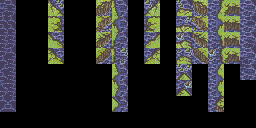
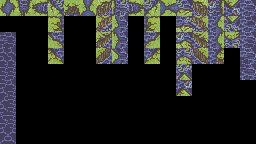
Working on Sea

diff --git a/app/map_maker/terrain_database.py b/app/map_maker/terrain_database.py
@@ -4,6 +4,7 @@ from app.map_maker.terrain import Terrain, TerrainCatalog
 from app.map_maker.wang_terrain import WangCorner2Terrain, WangEdge2Terrain
 from app.map_maker.building_terrain import CastleTerrain, HouseTerrain, RuinsTerrain
 from app.map_maker.cliff_terrain import CliffTerrain
+from app.map_maker.sea_terrain import SeaTerrain
 
 class RandomTerrain(Terrain):
     data = []
@@ -16,7 +17,7 @@ class RandomTerrain(Terrain):
         return new_coords1, new_coords2, new_coords3, new_coords4
 
 class SandTerrain(WangCorner2Terrain):
-    terrain_like = ('Sand', 'Road')
+    terrain_like = ('Sand', 'Road', 'Sea')
     corner_chance = 0.6
     edge_chance = 0.4
     vertices: dict = {}
@@ -282,6 +283,15 @@ class GrassTerrain(RandomTerrain):
             coord = [self.cliff_data[1]]
         elif south and south.startswith('Cliff') and west and west.startswith('Cliff') and not (southwest and southwest.startswith('Cliff')):
             coord = [self.cliff_data[2]]
+        # Handle seacliffs
+        elif north and north == 'Sea' and east and east == 'Sea' and northeast and northeast == 'Sea':
+            coord = [self.cliff_data[0]]
+        elif north and north == 'Sea' and west and west == 'Sea' and northwest and northwest == 'Sea':
+            coord = [self.cliff_data[3]]
+        elif south and south == 'Sea' and east and east == 'Sea' and southeast and southeast == 'Sea':
+            coord = [self.cliff_data[1]]
+        elif south and south == 'Sea' and west and west == 'Sea' and southwest and southwest == 'Sea':
+            coord = [self.cliff_data[2]]
         else:
             coord = self.data
 
@@ -357,6 +367,9 @@ Hill = HillTerrain('Hill', 'Hill', tileset, (13, 21))
 Cliff_Topleft = CliffTerrain('Cliff_Topleft', 'Cliff', 'app/map_maker/rainlash_fields1_cliff_topleft.png', (15, 0))
 Cliff_Bottomright = CliffTerrain('Cliff_Bottomright', 'Cliff', 'app/map_maker/rainlash_fields1_cliff_bottomright.png', (15, 0))
 
+Sea = SeaTerrain('Sea', 'Sea', 'app/map_maker/rainlash_fields1_sea_cliff.png', (15, 0))
+Sea.set_sand_tileset('app/map_maker/rainlash_fields1_sea_sand.png')
+
 BridgeH = RandomTerrain('BridgeH', 'Bridge', tileset, (2, 0))
 BridgeH.data = [(2, 0)]
 BridgeV = RandomTerrain('BridgeV', 'Bridge', tileset, (2, 1))
@@ -366,5 +379,5 @@ Castle = CastleTerrain('Castle', 'Castle', tileset, (4, 27))
 House = HouseTerrain('House', 'House', tileset, (4, 25))
 Ruins = RuinsTerrain('Ruins', 'Ruins', tileset, (3, 28))
 
-d = [Plains, Sand, Road, Forest, Thicket, Cliff_Topleft, Cliff_Bottomright, Hill, River, BridgeH, BridgeV, House, Castle, Ruins]
+d = [Plains, Sand, Road, Forest, Thicket, Cliff_Topleft, Cliff_Bottomright, Hill, River, Sea, BridgeH, BridgeV, House, Castle, Ruins]
 DB_terrain = TerrainCatalog(d)

diff --git a/app/map_maker/sea_terrain.py b/app/map_maker/sea_terrain.py
@@ -1,0 +1,57 @@
+from PyQt5.QtGui import QPixmap, QPainter, qRgb
+
+from app.constants import TILEWIDTH, TILEHEIGHT
+from app.map_maker.utilities import random_choice
+from app.map_maker.wang_terrain import WangEdge2Terrain
+
+class SeaTerrain(WangEdge2Terrain):
+    terrain_like = ('Sea', 'River', 'BridgeH', 'BridgeV')
+    sand_tileset_path = None
+    sand_tileset_pixmap = None
+
+    def set_sand_tileset(self, tileset_path):
+        self.sand_tileset_path = tileset_path
+
+    @property
+    def check_flood_fill(self):
+        return True
+
+    def _find_limit(self, idx: int) -> int:
+        bg_color = qRgb(0, 0, 0)
+        img = self.tileset_pixmap.toImage()
+        x = idx * TILEWIDTH
+        for y in range(0, img.height(), TILEHEIGHT):
+            current_color = img.pixel(x, y)
+            if current_color == bg_color:
+                return y // TILEHEIGHT
+        return (img.height() // TILEHEIGHT)
+
+    def get_display_pixmap(self):
+        if not self.display_pixmap:
+            main_pix = QPixmap(16, 16)
+            painter = QPainter()
+            painter.begin(main_pix)
+            painter.drawPixmap(0, 0, self.tileset_pixmap.copy(TILEWIDTH * 15, 0, TILEWIDTH, TILEHEIGHT))
+            painter.end()
+            self.display_pixmap = main_pix
+            self.sand_tileset_pixmap = QPixmap(self.sand_tileset_path)
+        return self.display_pixmap
+
+    def _determine_index(self, tilemap, pos: tuple) -> tuple:
+        north, east, south, west = tilemap.get_cardinal_terrain(pos)
+        north_edge = bool(not north or north in self.terrain_like)
+        south_edge = bool(not south or south in self.terrain_like)
+        east_edge = bool(not east or east in self.terrain_like)
+        west_edge = bool(not west or west in self.terrain_like)
+        return 1 * north_edge + 2 * east_edge + 4 * south_edge + 8 * west_edge
+
+    def determine_sprite_coords(self, tilemap, pos: tuple) -> tuple:
+        index = self._determine_index(tilemap, pos)
+        new_coords = [(index, k) for k in range(self.limits[index])]
+
+        # So it always uses the same set of coords...
+        new_coords1 = [random_choice([(c[0]*2, c[1]*2) for c in new_coords], pos)]
+        new_coords2 = [random_choice([(c[0]*2 + 1, c[1]*2) for c in new_coords], pos)]
+        new_coords3 = [random_choice([(c[0]*2 + 1, c[1]*2 + 1) for c in new_coords], pos)]
+        new_coords4 = [random_choice([(c[0]*2, c[1]*2 + 1) for c in new_coords], pos)]
+        return new_coords1, new_coords2, new_coords3, new_coords4

diff --git a/app/map_maker/wang_terrain.py b/app/map_maker/wang_terrain.py
@@ -34,7 +34,7 @@ class WangEdge2Terrain(Terrain):
             self.display_pixmap = main_pix
         return self.display_pixmap
 
-    def determine_sprite_coords(self, tilemap, pos: tuple) -> tuple:
+    def _determine_index(self, tilemap, pos: tuple) -> tuple:
         north, east, south, west = tilemap.get_cardinal_terrain(pos)
         north_edge = bool(not north or north in self.terrain_like)
         south_edge = bool(not south or south in self.terrain_like)
@@ -44,6 +44,10 @@ class WangEdge2Terrain(Terrain):
         index2 = 12 + 1 * north_edge + 2 * east_edge
         index3 = 9 + 4 * south_edge + 2 * east_edge
         index4 = 3 + 4 * south_edge + 8 * west_edge
+        return index1, index2, index3, index4
+
+    def determine_sprite_coords(self, tilemap, pos: tuple) -> tuple:
+        index1, index2, index3, index4 = self._determine_index(tilemap, pos)        
         new_coords1 = [(index1, k) for k in range(self.limits[index1])]
         new_coords2 = [(index2, k) for k in range(self.limits[index2])]
         new_coords3 = [(index3, k) for k in range(self.limits[index3])]
@@ -78,10 +82,3 @@ class WangCorner2Terrain(WangEdge2Terrain):
             8 * west_edge
         return index1, index2, index3, index4
 
-    def determine_sprite_coords(self, tilemap, pos: tuple) -> tuple:
-        index1, index2, index3, index4 = self._determine_index(tilemap, pos)
-        new_coords1 = [(index1, k) for k in range(self.limits[index1])]
-        new_coords2 = [(index2, k) for k in range(self.limits[index2])]
-        new_coords3 = [(index3, k) for k in range(self.limits[index3])]
-        new_coords4 = [(index4, k) for k in range(self.limits[index4])]
-        return new_coords1, new_coords2, new_coords3, new_coords4
